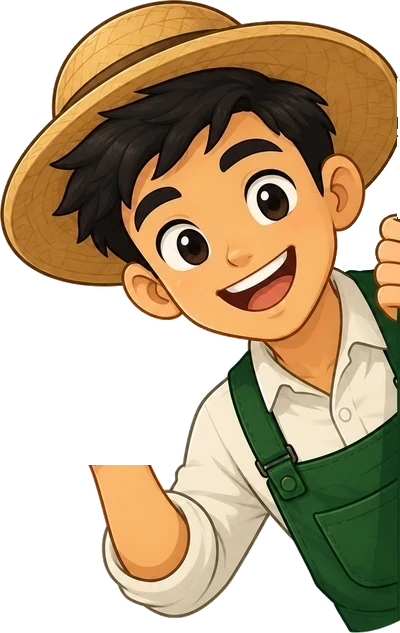
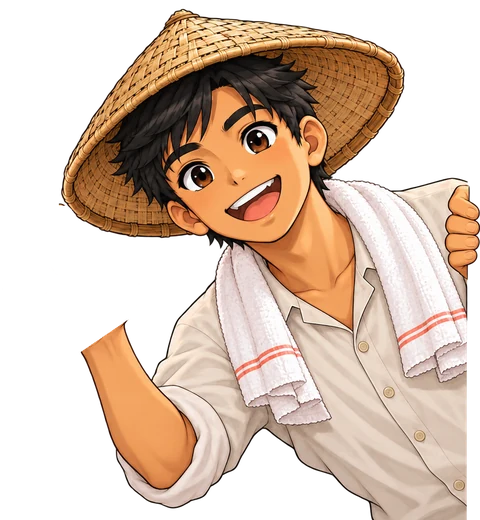
Account creation: the new Juan peeking round the wall, waving from the wrist and talking

diff --git a/src/styles/authStyles.ts b/src/styles/authStyles.ts
@@ -439,19 +439,28 @@ export const authCss = `
   }
   /* A soft pool of light behind the figure grounds him on the ink, so he reads
      as placed rather than pasted. */
-  /* Centred on the figure's chest (he stands flush right, about 160px wide),
+  /* Centred on the figure's chest (he stands flush right, about 190px wide),
      so the light sits behind him like a spotlight on a stage rather than
      off to one side of him. */
   .a-rolestage::before {
-    content: ""; position: absolute; right: -112px; bottom: -80px; width: 340px; height: 340px;
+    content: ""; position: absolute; right: -78px; bottom: -80px; width: 340px; height: 340px;
     border-radius: 50%;
     background: radial-gradient(closest-side, rgba(140,208,132,.3), rgba(140,208,132,.1) 55%, rgba(140,208,132,0));
   }
   /* The cast hugs the figure: it's as wide as whichever figure is on stage,
      and flush to the screen's right edge. The bubble is placed against the
      cast, so it always lands right beside his head. */
-  .a-cast { position: absolute; right: -22px; bottom: 0; height: min(100%, 250px); }
+  /* Both figures are drawn wide (Juan waving out to his side, the buyer with
+     her bag), and each is sized to the same width, about 190px, so the bubble
+     beside them has the same room on any phone. */
+  .a-cast { position: absolute; right: -22px; bottom: 0; height: min(100%, 206px); }
   .a-cast[data-fig="buyer"] { height: min(100%, 216px); }
+  /* On the narrowest phones a little shorter, so a Filipino line (the
+     longest) still fits in the bubble beside them. */
+  @media (max-width: 370px) {
+    .a-cast { height: min(100%, 180px); }
+    .a-cast[data-fig="buyer"] { height: min(100%, 190px); }
+  }
   .a-fig {
     display: block; height: 100%; width: auto;
     pointer-events: none; user-select: none;
@@ -465,12 +474,12 @@ export const authCss = `
   /* Juan in two layers, so his hand can wave. The wrapper is sized like the
      single image it replaces (the drawing's own proportions), and the two
      layers fill it exactly, one over the other. */
-  .a-fig-layers { position: relative; aspect-ratio: 400 / 633; }
+  .a-fig-layers { position: relative; aspect-ratio: 480 / 520; }
   .a-fig-layers > img { position: absolute; inset: 0; width: 100%; height: 100%; display: block; }
   /* The pivot is his wrist crease, measured on the drawing. Each swing eases
      in and out like a pendulum: it is movement back and forth, not an
      entrance. Only while he is the one on stage. */
-  .a-fig-hand { transform-origin: 30.5% 74.41%; }
+  .a-fig-hand { transform-origin: 20.63% 65.92%; }
   .a-fig.on .a-fig-hand { animation: a-wave 1.6s var(--ease-io) 140ms both; }
   /* The first wave waits for the stage to rise into place. */
   .a-fig.on .a-fig-hand.is-first { animation-delay: 680ms; }
@@ -545,16 +554,13 @@ export const authCss = `
   /* Top-aligned with the figure's head and hung just off his left side, so it
      grows downward toward his face rather than up into the title. */
   .a-say {
-    position: absolute; right: calc(100% + 12px); top: 10px; z-index: 1;
-    width: max-content; max-width: 196px;
+    position: absolute; right: calc(100% + 6px); top: 10px; z-index: 1;
+    width: max-content; max-width: 176px;
     display: flex; flex-direction: column; gap: 4px;
     background: #fff; color: var(--ink); border-radius: 20px; padding: 14px 16px 15px;
     box-shadow: 0 10px 24px -10px rgba(0,0,0,.55), 0 1px 0 rgba(255,255,255,.9) inset;
     transform-origin: 100% 80%; animation: a-bubble-in 240ms var(--ease-out) both;
   }
-  /* The buyer is wider, so his bubble keeps a smaller gap and a narrower
-     measure, but never overlaps him. */
-  .a-cast[data-fig="buyer"] .a-say { right: calc(100% + 6px); max-width: 176px; }
   /* The tail points down-right, at his face. */
   .a-say::after {
     content: ""; position: absolute; right: -6px; bottom: 18px; width: 14px; height: 14px;
@@ -1112,7 +1118,7 @@ export const authCss = `
      the status and navigation bars are taken off. Never shorter than the
      bubble. */
   .a-askscene {
-    --fig-h: clamp(160px, 100dvh - 540px, 237px);
+    --fig-h: clamp(133px, 100dvh - 565px, 186px);
     flex: 0 1 var(--fig-h); min-height: min-content; margin-top: 18px;
     display: flex; align-items: flex-end; gap: 12px;
   }
@@ -1122,7 +1128,7 @@ export const authCss = `
      point lands right beside him; flush with the screen's right edge as on
      the role step. */
   .a-askfig {
-    position: relative; flex: 0 0 calc(var(--fig-h) * 400 / 633); align-self: stretch; margin-right: -22px;
+    position: relative; flex: 0 0 calc(var(--fig-h) * 480 / 520); align-self: stretch; margin-right: -22px;
     animation: a-stage-in 520ms var(--ease-out) 140ms both;
   }
   .a-askfig[data-fig="buyer"] { flex-basis: calc(var(--fig-h) * 456 / 520); }

diff --git a/design/artwork/README.md b/design/artwork/README.md
@@ -11,7 +11,7 @@ a second of loading for a picture that renders 380 pixels wide.
 | `AnisensePosterLS.png` | `src/assets/anisense-poster.webp` (1200 wide) | Buyer Home, the second poster in the banner under the search bar; farmer Home, partway down |
 | `FarmerMarketPoster.png` | `src/assets/farmer-market-poster.webp` (1200 wide) | Marketplace poster, farmer accounts (16:9, the same frame as the buyers' poster) |
 | `MarketplaceBuyerPoster.png` | `src/assets/anisense-poster-market.webp` (1200 wide: the poster carries a lot of text) | Marketplace poster, buyer accounts: "Fresh from the Farm. Connect directly with local farmers" |
-| `Peeking.png` | `src/assets/juan-peek.webp`, split into `juan-peek-body.webp` + `juan-peek-hand.webp` (+ `juan-peek-mouth-half.webp`, `juan-peek-mouth-shut.webp`: drawn half-open mouth and closed smile) | Signup screens (language, role); the hand layer waves from the wrist, and the mouth layers switch in turn so he says each line, then stops |
+| `JuanFarmerPeeking.png` (haze cleared; cropped to the figure, his right side flush with the edge like a wall, 480 × 520) | `src/assets/juan-peek.webp` (whole), split into `juan-peek-body.webp` (the hand cut away across the forearm at the wrist) + `juan-peek-hand.webp` (turns from the wrist, `transform-origin: 20.63% 65.92%` on `.a-fig-hand`) + `juan-peek-mouth-half.webp`, `juan-peek-mouth-shut.webp` (a half-open mouth and a closed smile, drawn by a script) | Creating an account (language, role, every farmer sign-up question): he waves, and says each line, then stops |
 | `FarmerCarryingBasket.png` (already transparent; cropped to the figure's width, 420 × 474) | `src/assets/mascot-basket.webp` (+ `-blink`, `-mouth-half`, `-mouth-shut`: closed lids, a half-open mouth and a closed smile, drawn on the same canvas by a script that fills the eyes and mouth with the face's own skin tones) | The market card at the top of Prices; blinks and talks on a loop |
 | `BuyerPhone.png` (the faint coloured haze left by its background removal cleared; cropped head to waist, 456 × 520) | `src/assets/buyer-mascot.webp` (+ `buyer-mascot-eyes.webp`, `buyer-mascot-mouth.webp`: closed lids and a closed smile, drawn on the same canvas by a script) | Creating an account as a buyer: the role step and every sign-up question. She blinks, and says each line |
 | `BuyerHi.png` (haze cleared; cropped head to waist, 420 × 435, the farmer's hello frame) | `src/assets/buyer-wave-body.webp` (the hand cut away above the wrist; her sleeve carried on where the palm covered it) + `-hand` (rotates from the wrist crease, `transform-origin: 14.37% 55.91%` on `.tour-mascot.buyer .tm-hand` and `.gd-mascot.buyer .tm-hand`) + `-eyes` (her open eye closed; the other is drawn winking) + `-mouth` (a small open mouth: she is drawn with a closed smile, so saying hi opens it) | Opening card of the buyer's walkthrough (she waves, blinks and says hi), and the Guide in a buyer's account (waves, then blinks) |
